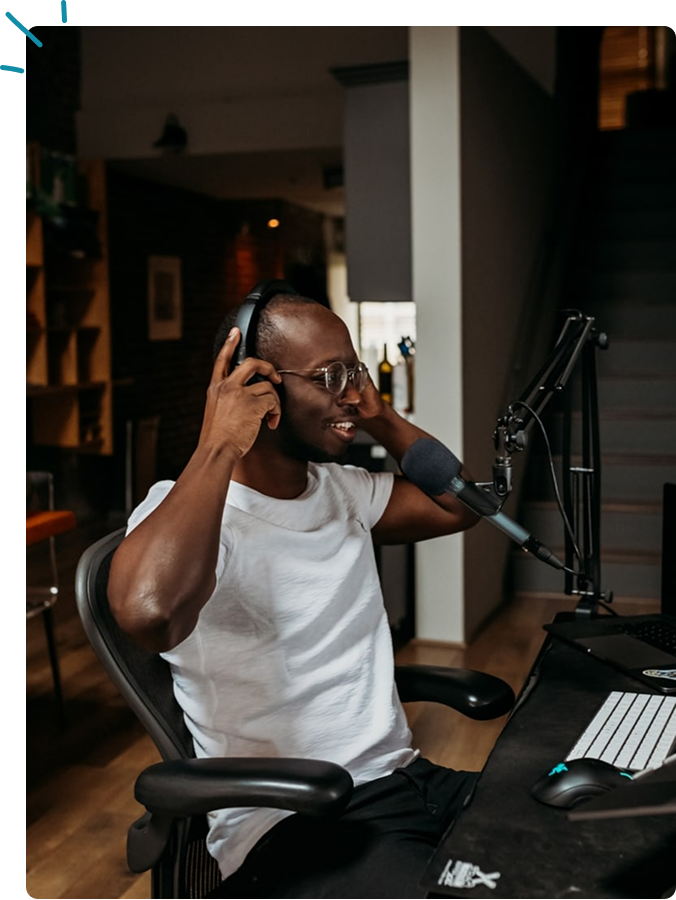
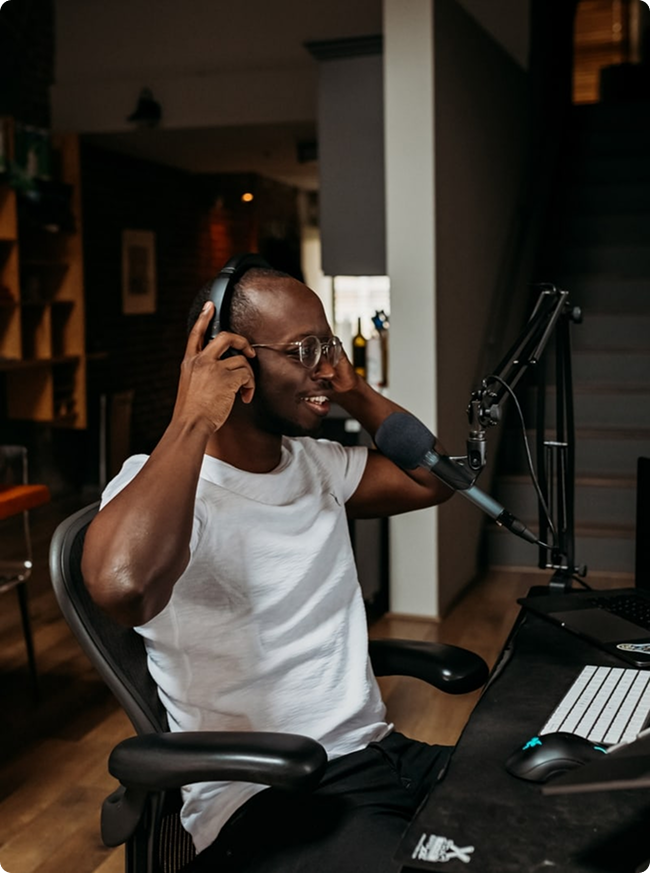
Делаю 6 отзывов

diff --git a/index.html b/index.html
@@ -29,7 +29,6 @@
         <section class="get-started">
           <div class="get-started__container">
             <div class="get-started__image">
-              <!-- Исправить картинку =================================================== -->
               <img src="./images/get-started/people.png" alt="people" />  
             </div>
 
@@ -227,6 +226,10 @@
           </div>
       </section>
       </main>
+
+      <footer class="footer">
+
+      </footer>
     </div>
   </body>
 </html>

diff --git a/css/pages/get-started/get-started.css b/css/pages/get-started/get-started.css
@@ -6,9 +6,26 @@
   display: flex;
 }
 
+.get-started__image{
+  position: relative;
+}
+
+.get-started__image::before{
+  content: "";
+
+  position: absolute;
+  left: -30px;
+  top: -30px;
+  z-index: 1;
+  width: 68px;
+  height: 74px;
+  background-image: url("../../../images/get-started/mainImageDecoration.svg");
+}
+
 .get-started__image img{
   width: 684px;
   height: auto;
+  
 }
 
 .get-started__content{
